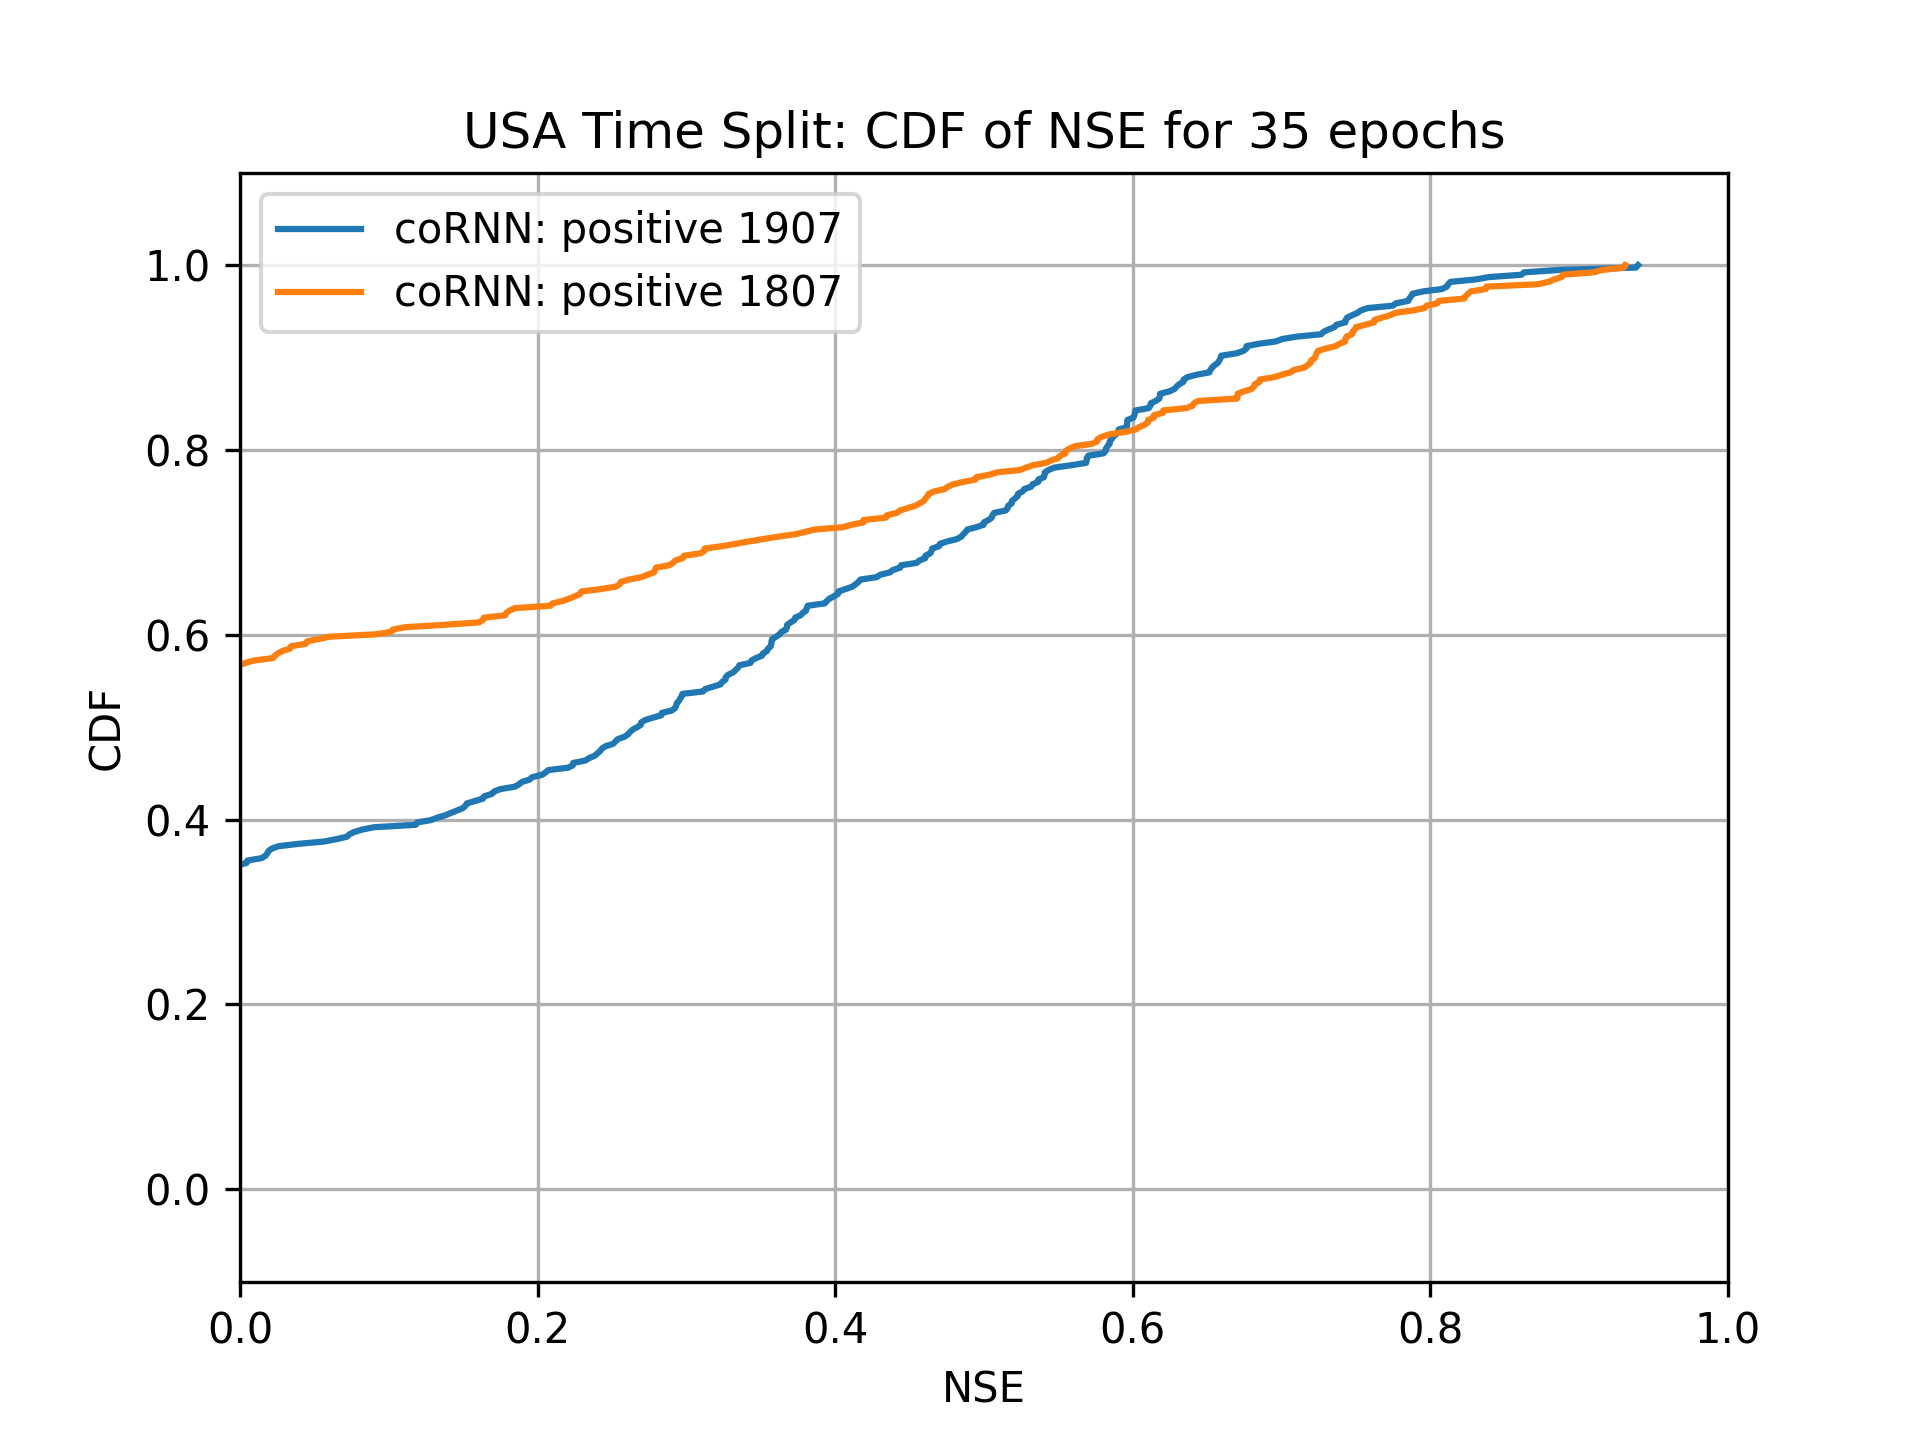
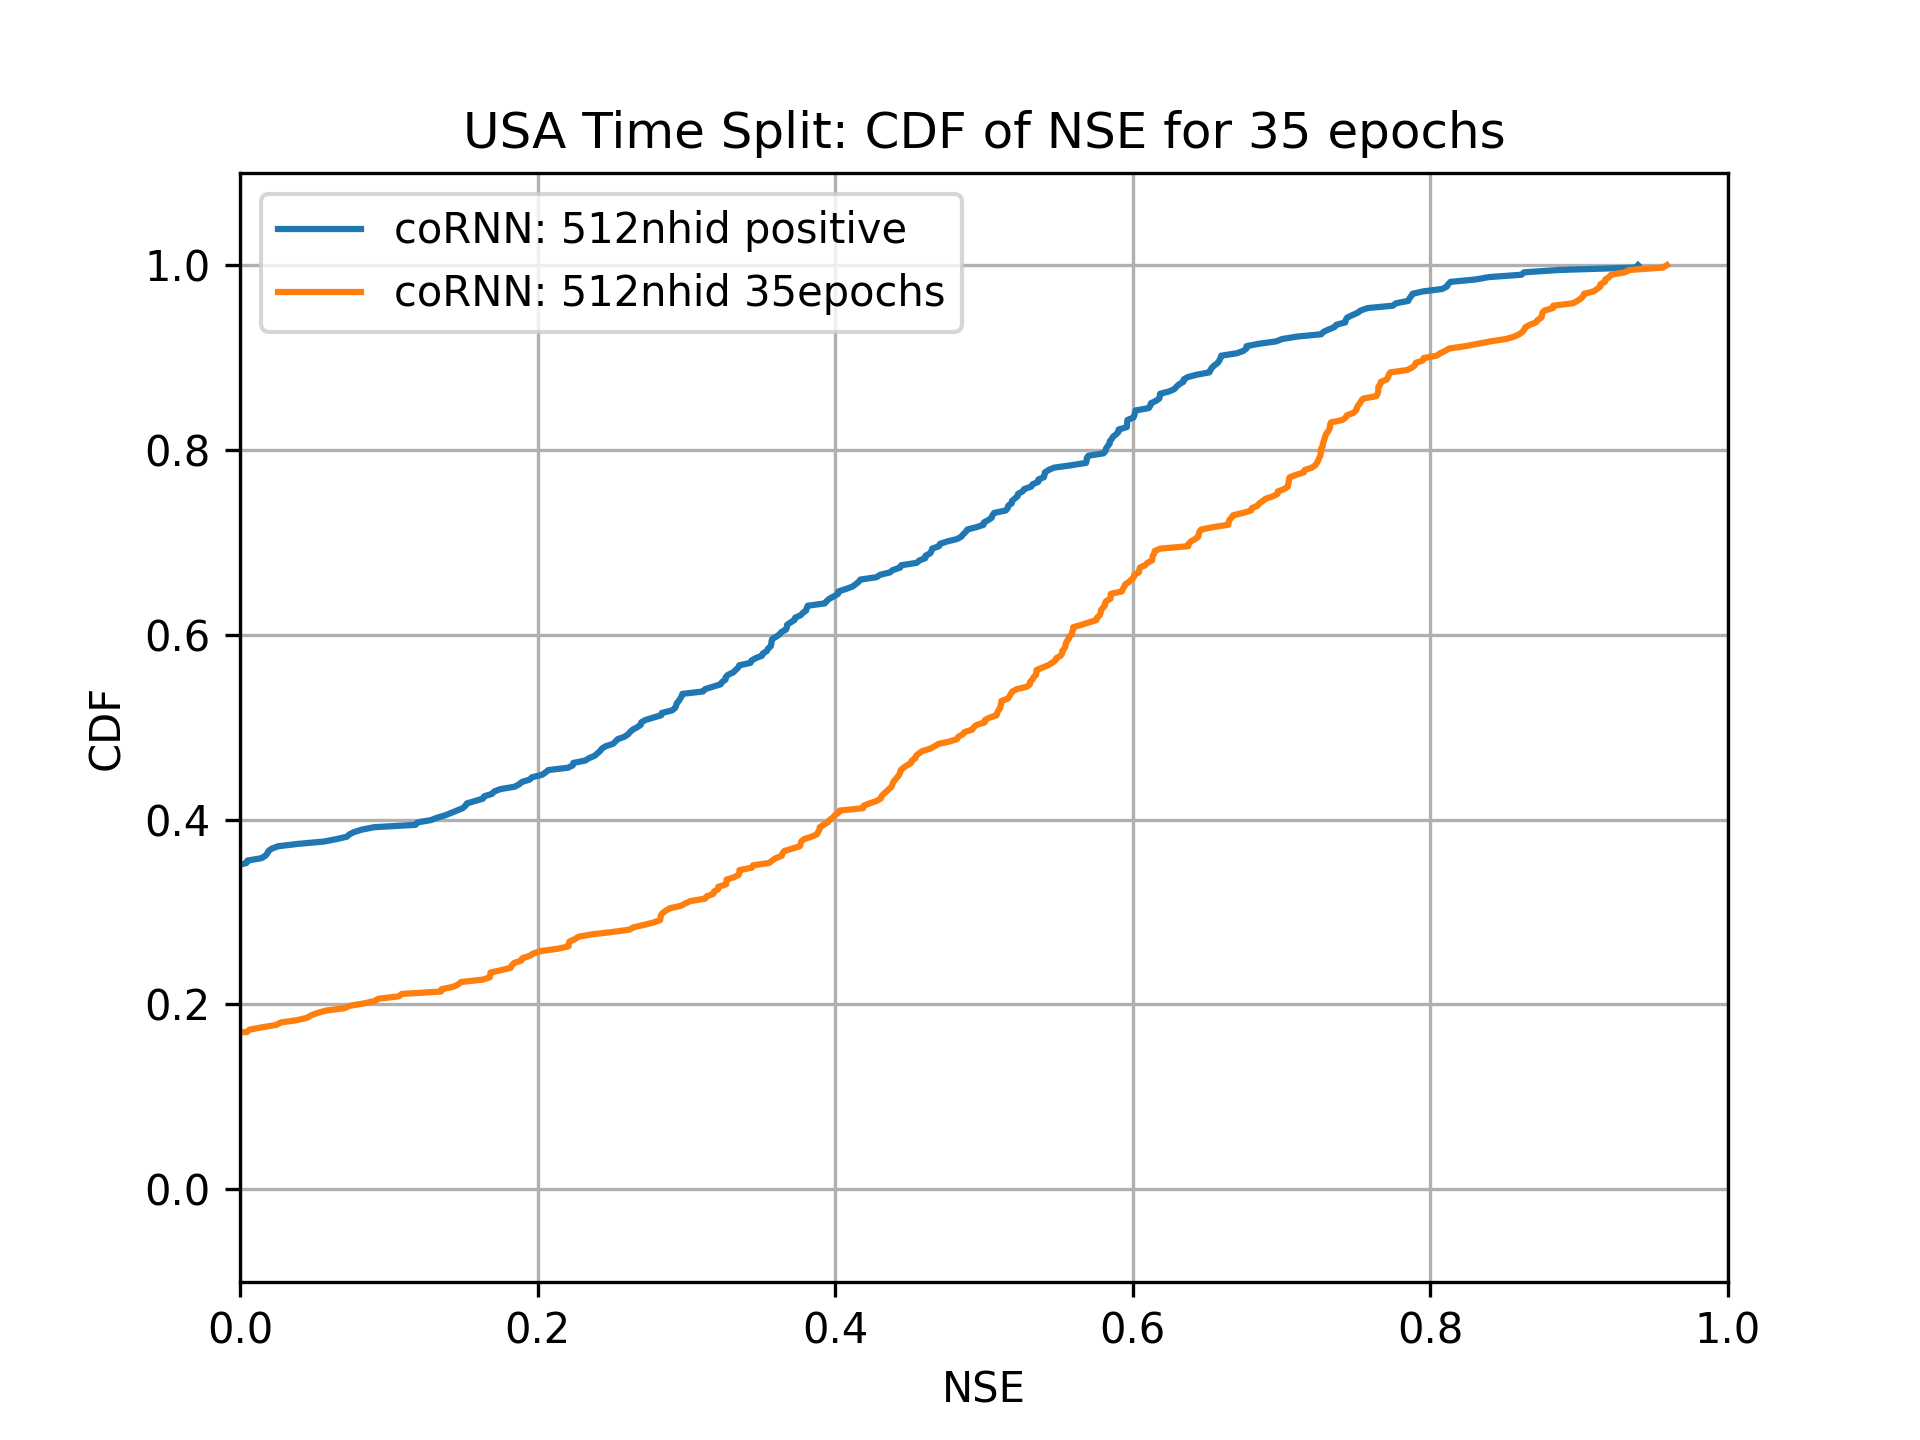
Experiemnt training NSE with varied learning rates

diff --git a/examples/catchment_models/neuralhydrology/model_plots.py b/examples/catchment_models/neuralhydrology/model_plots.py
@@ -13,8 +13,8 @@ if __name__ == "__main__":
                 # 'lstm_training':
                 #     ['usa_time_split_adj_0807_170652'],
                 'neuralhydrology':
-                    ['usa_time_split_512nhid_positive_1907_152520',
-                    'usa_time_split_512nhid_positive_1807_121830']
+                    ['usa_time_split_512nhid_35epochs_1007_143728',
+                    'usa_time_split_checkpoint_nse_2307_190034']
                 }
 
     OvS = []
@@ -29,10 +29,13 @@ if __name__ == "__main__":
                 epoch = '14'
             else:
                 model = 'coRNN'
-                epoch = '35'
+                if run_dir == 'usa_time_split_512nhid_35epochs_1007_143728':
+                    epoch = '35'
+                else:
+                    epoch = '10'
             parts = run_dir.split('_')
             split_name = f"{parts[0].upper()} {parts[1].capitalize()} {parts[2].capitalize()}"
-            exp_name = f"{model}: {parts[4]} {parts[5]}"
+            exp_name = f"{model}: {parts[3]} {parts[4]}"
 
             # Plot observed vs simulated trajectory
             qobs, qsim = obs_vs_sim_plot(model_dir, run_dir, epoch)
@@ -47,7 +50,7 @@ if __name__ == "__main__":
             MED_NSE.append((ep, med_nse, exp_name))
     
     if True:
-        plot_folder = 'enforced_positivity2'
+        plot_folder = 'nse_on_trained_mse_model'
         if not os.path.exists(f'plots/{plot_folder}'):
             os.makedirs(f'plots/{plot_folder}')
 
@@ -79,7 +82,7 @@ if __name__ == "__main__":
         plt.ylabel('NSE') 
         plt.title(split_name + ': Median NSE vs Epoch')
         plt.grid(True)
-        plt.xlim(0, int(epoch) + 1)
+        # plt.xlim(0, int(epoch) + 1)
         # plt.ylim(0.1, 0.6)
         plt.legend()
         fig_path = f'plots/{plot_folder}/NSE_per_epoch.png'

diff --git a/examples/catchment_models/neuralhydrology/plotting/obs_vs_sim_plots.py b/examples/catchment_models/neuralhydrology/plotting/obs_vs_sim_plots.py
@@ -17,7 +17,7 @@ def obs_vs_sim_plot(model_dir, run_dir, epoch, basin_id = '7050039160', plot_boo
     qobs = results[basin_id]['1D']['xr']['streamflow_obs']
     qsim = results[basin_id]['1D']['xr']['streamflow_sim']
 
-    if True:
+    if plot_bool:
         # plot figure
         fig, ax = plt.subplots(figsize=(16,10))
         # ax.plot(qobs['date'], qobs, label='Observed')
